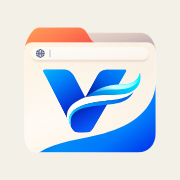
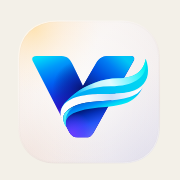
Update vaayvu.com

Changed region(s): [[0.1111, 0.1111, 0.8889, 0.8611]]

diff --git a/index.html b/index.html
@@ -18,7 +18,7 @@
     />
     <link rel="canonical" href="https://vaayvu.com/" />
     <meta name="theme-color" content="#f3f0e8" />
-    <link rel="icon" href="assets/vaayvu.svg" type="image/svg+xml" />
+    <link rel="icon" href="assets/vaayvu-wind.svg" type="image/svg+xml" />
     <link rel="apple-touch-icon" href="assets/vaayvu-180.png" />
 
     <meta property="og:type" content="website" />
@@ -63,7 +63,7 @@
     <header class="masthead" id="top">
       <div class="shell masthead-inner">
         <a class="brand" href="#top" aria-label="Vaayvu, back to top">
-          <img src="assets/vaayvu.svg" width="30" height="30" alt="" />
+          <img src="assets/vaayvu-wind.svg" width="30" height="30" alt="" />
           <span>Vaayvu</span>
         </a>
 
@@ -751,7 +751,7 @@
     <footer class="site-footer">
       <div class="shell footer-inner">
         <div class="footer-brand">
-          <img src="assets/vaayvu.svg" width="28" height="28" alt="" />
+          <img src="assets/vaayvu-wind.svg" width="28" height="28" alt="" />
           <div>
             <strong>Vaayvu</strong>
             <span>An independent browser · vaayvu.com</span>
